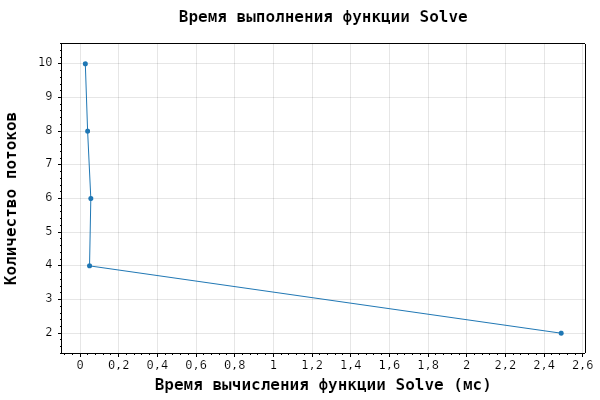
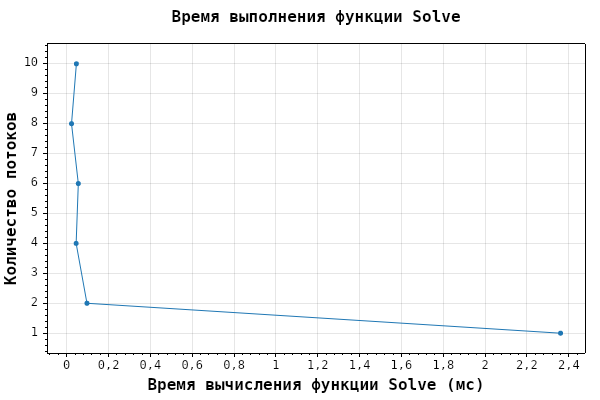
feat: add single-threaded case to performance test

diff --git a/task15/task15.cs b/task15/task15.cs
@@ -25,7 +25,7 @@ class Program
             }
         }
 
-        int[] threadsCount = { 2, 4, 6, 8, 10 };
+        int[] threadsCount = { 1, 2, 4, 6, 8, 10 };
         int iterations = 10;
         double[] times = new double[threadsCount.Length];
 
